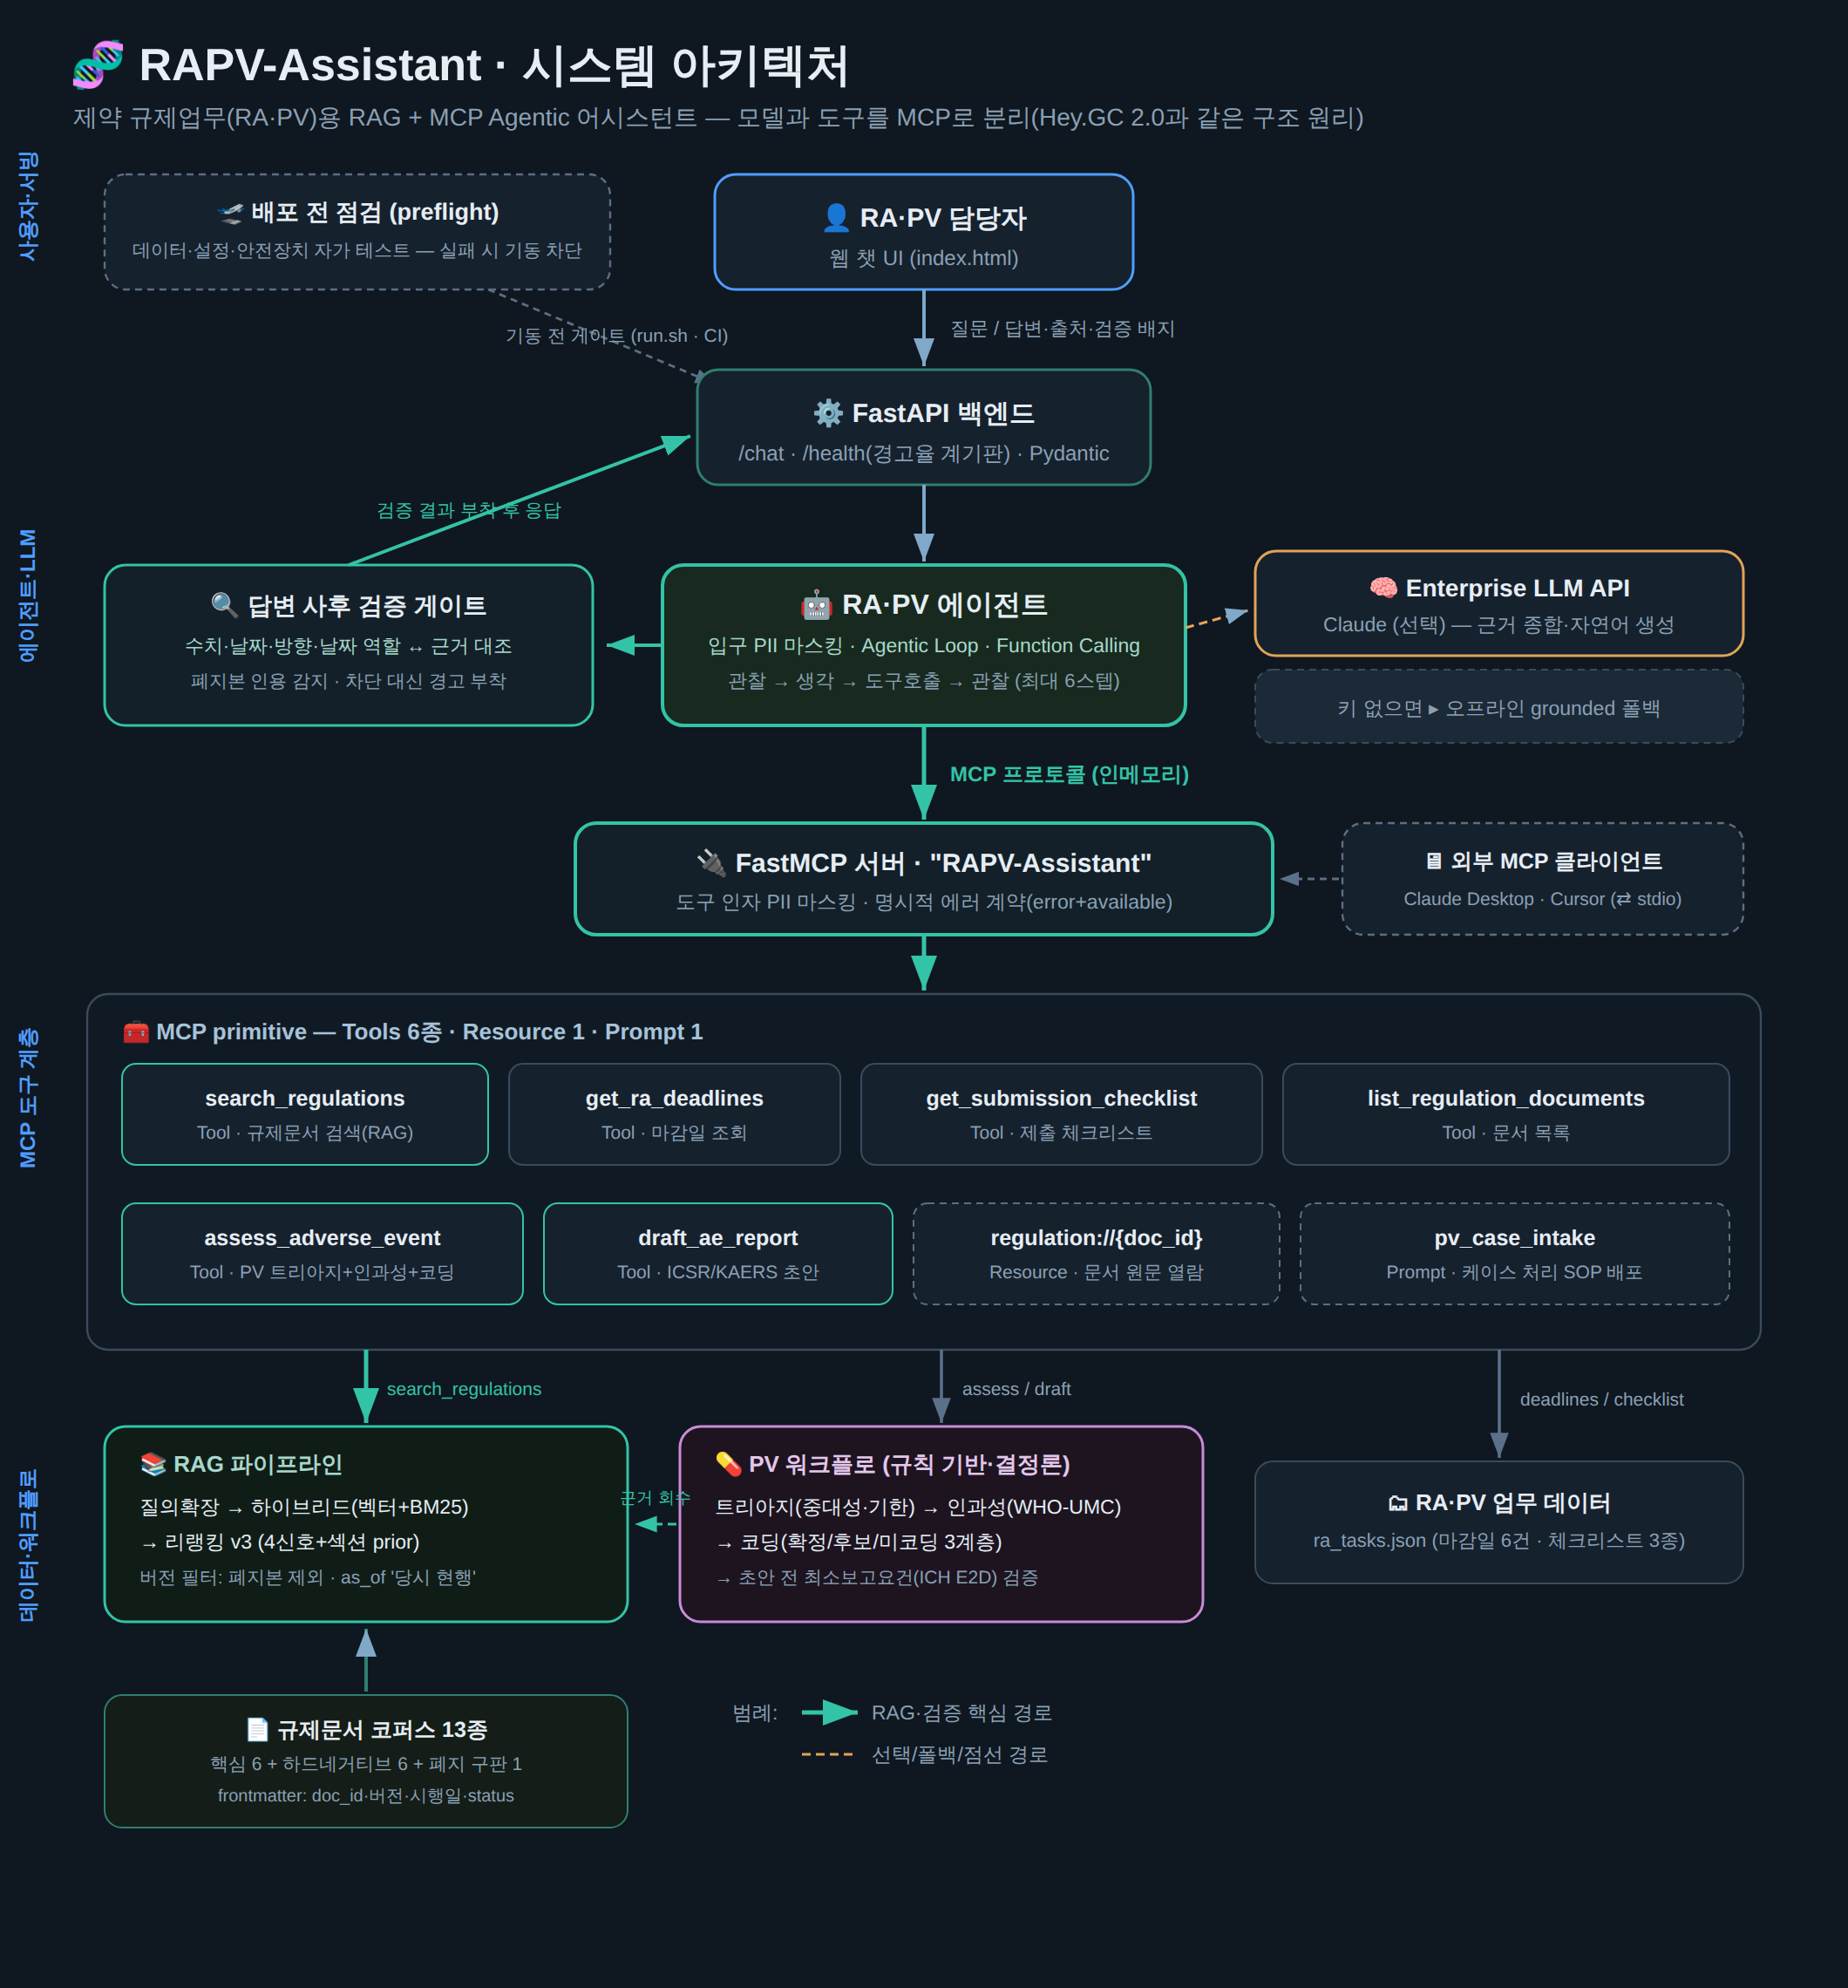
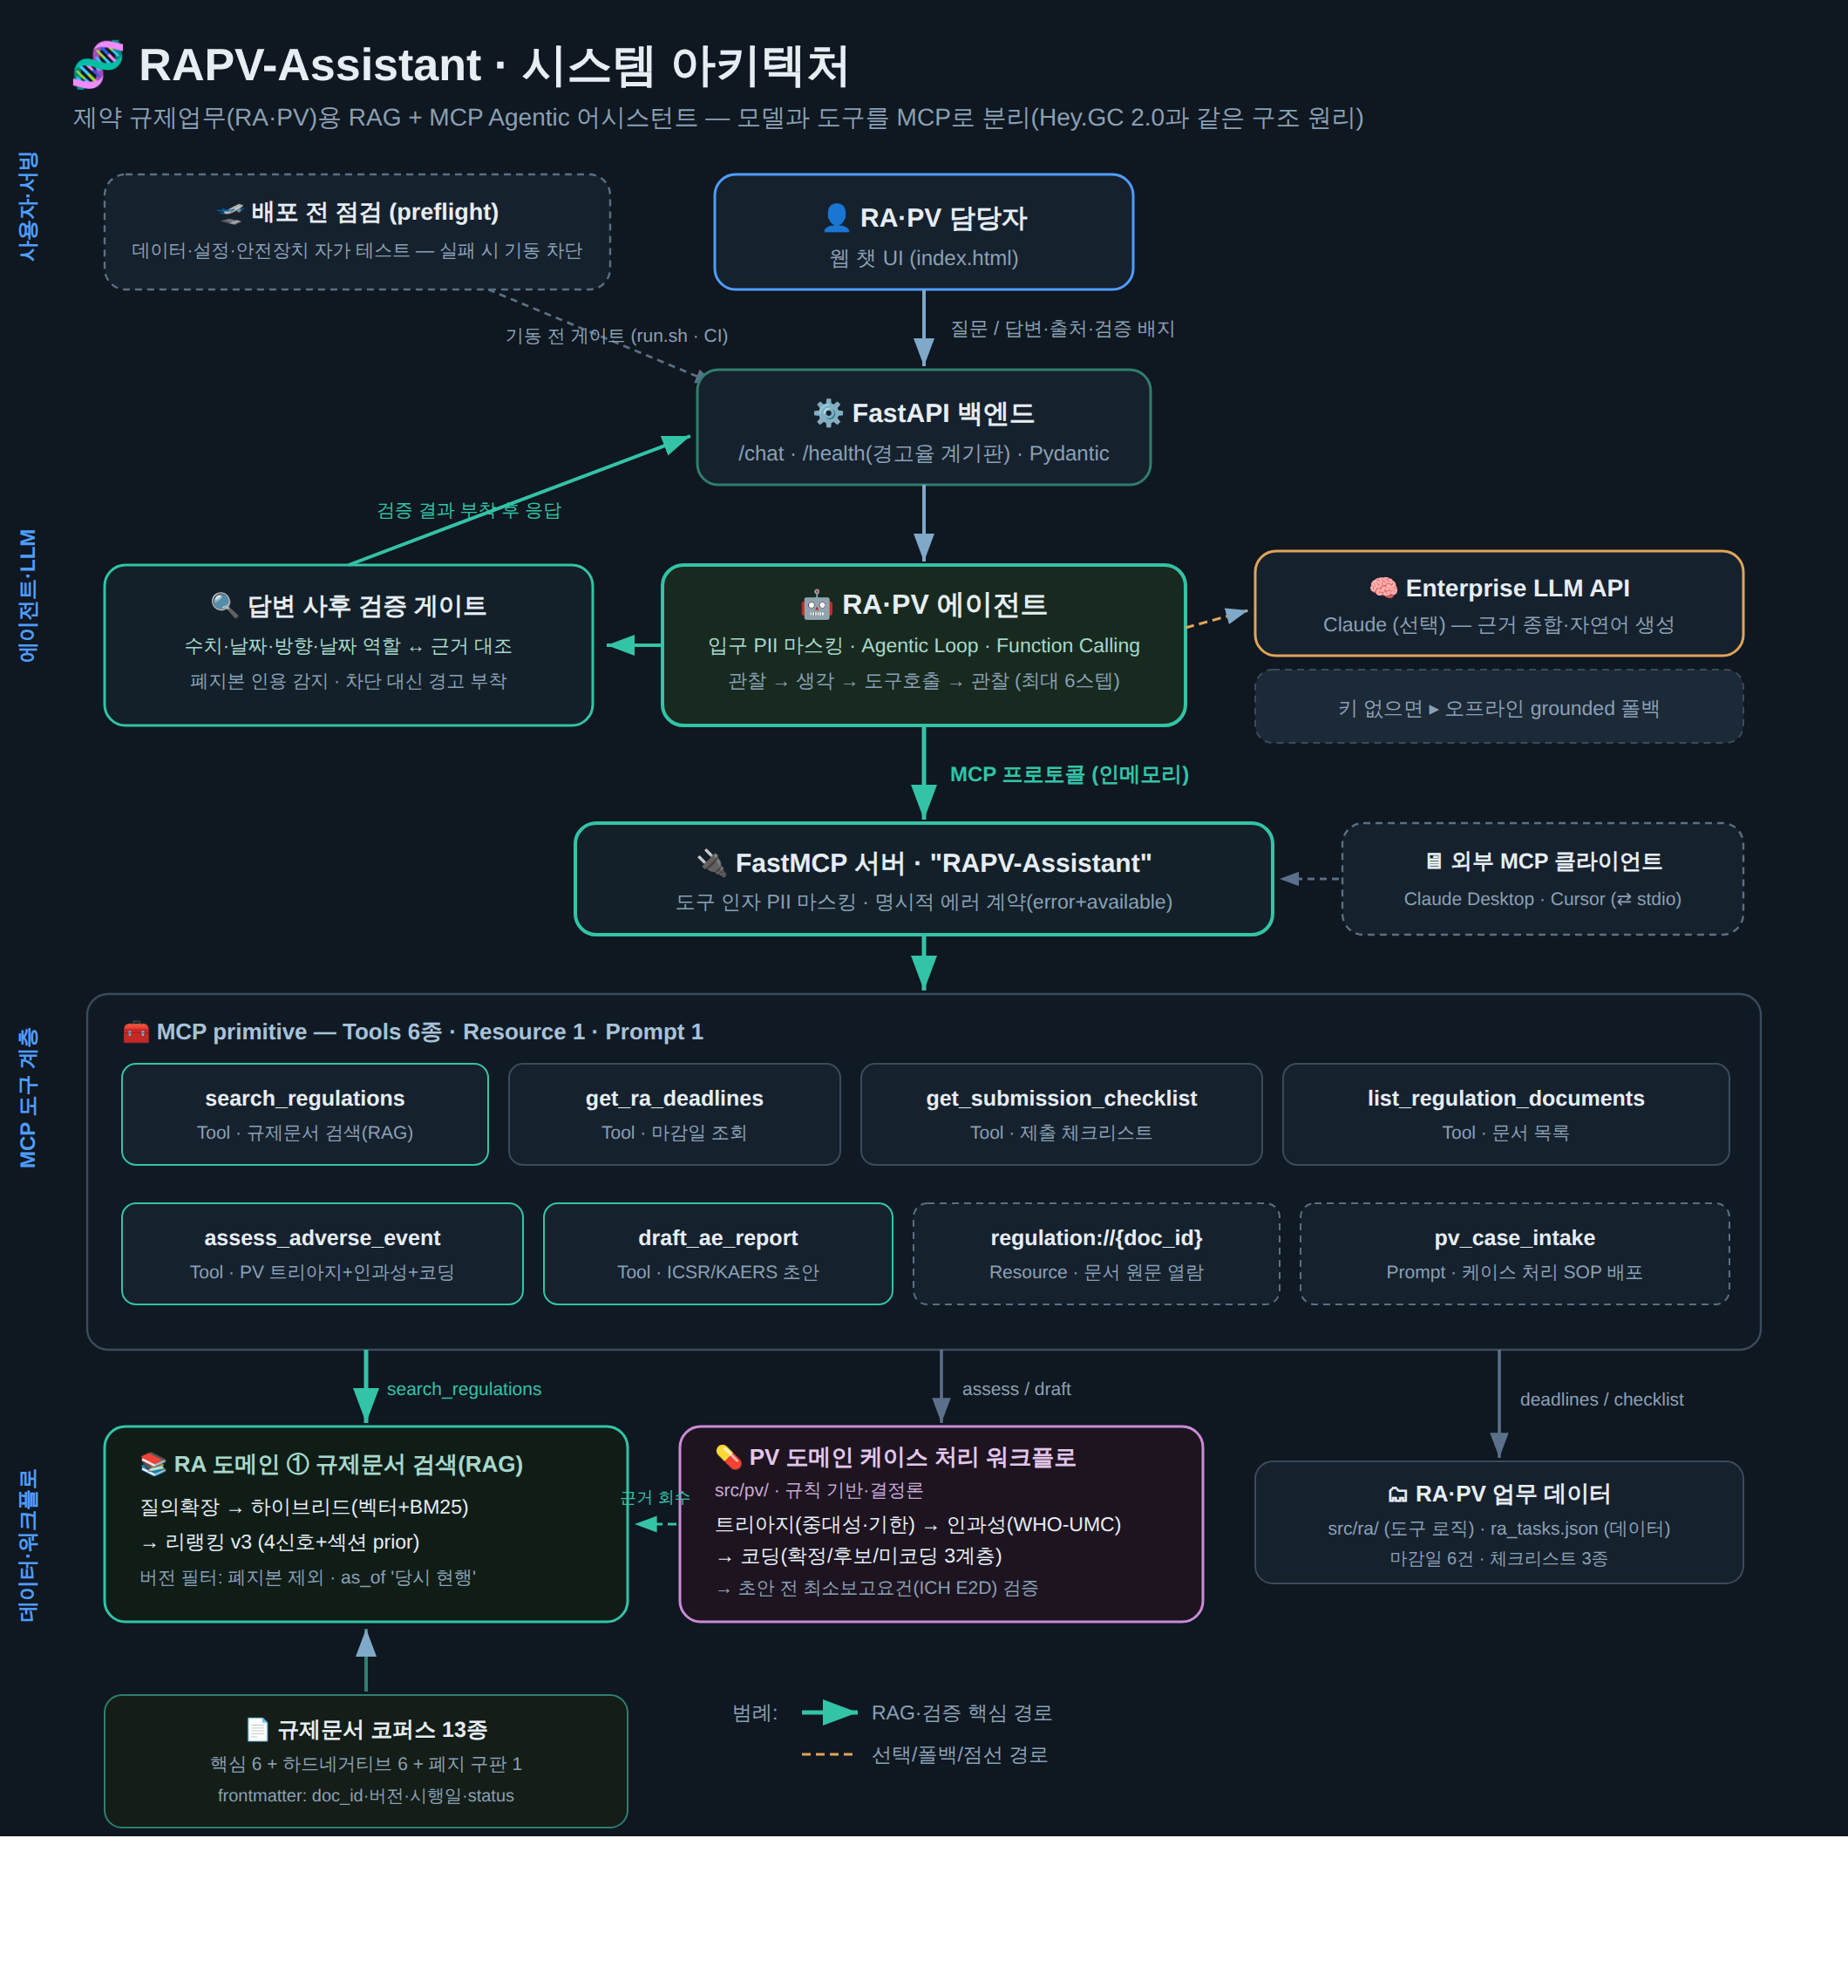
docs(v9): 점검 반영 일괄 갱신 — 홀드아웃 교정 서사·드리프트 정정·도메인 대칭 라벨·7-7 기록
v9 10렌즈 점검의 문서 발견 반영(코드 반영은 직전 커밋).

- 수치 갱신: pytest 237→271케이스(CLAUDE.md·README·파일구조·가이드·dictionary·면접노트 등
  현재 시제 전건), 지원 문서의 "pytest 195케이스" 드리프트(경력기술서_2 현행 섹션·
  05_자소서_문항3) 정정, "탐지 7축 84건" 구표기 3곳 → 9축 93건, 파일구조.md 줄 수 전건 실측 갱신.
- 홀드아웃 서사 교정: 유일 실패(0.833)는 유사문서 혼동이 아니라 복수 정답 문항의 라벨
  모호성 — accept_doc_ids 교정 후 1.000 [0.610, 1.000]. README 읽기 규율·아키텍처 8/9장·
  면접노트·면접질문 F-7 을 "교정 이력 병기 + 일반화 보장 아님(n=6)" 서사로 통일.
- 문서-동작 불일치 정정: "미충족이면 초안 대신 보완 질문" 서사 4곳(가이드·dictionary·
  아키텍처·면접질문) → 실동작(⛔ 상태 헤더 병기 초안), Claude Desktop 예시에 PYTHONPATH
  env 추가(cwd 전제 제거 — 실측), /api/deadlines 창 미적용 명시, 멀티턴 병합 경계 명시,
  무신호 질의 에러 계약 문서화.
- 도메인 대칭: 다이어그램 라벨 "RAG 파이프라인↔PV 워크플로" 병치(RAG=RA 오독 유발형)를
  "RA 도메인 ① 규제문서 검색(RAG) ↔ PV 도메인 케이스 처리"로 — README·아키텍처 mermaid·
  architecture.svg 일괄, PNG 재렌더(2120×2280). src/ra/ 신설을 읽기 지도·아키텍처·매핑 표에 등재.
- 파일구조.md 사각지대 해소: scripts/ingest_pdf.py·eval/holdout_dataset.json·
  tests/test_ingest.py·tests/test_ra.py·가이드.md 등재, 7-6/7-7 참조 추가.
- 면접질문 I 섹션 확충: 비용 봉투 계산(I-8)·코퍼스 수명주기 운영(I-9) 문답 신설.
- 면접 문서 정합: 90초 구술본 축 수, D-4 "1:1 대응" 범위 정정, F-3 튜닝 체인 귀속 통일,
  소개서 KAERS 시나리오를 오프라인 라우팅 실동작에 맞는 입력 예시로, 자소서 소재의
  PII 단층 서사 → 2겹, Hit@1 개발셋/홀드아웃 구분 단서.
- 아키텍처.md 7-7 신설: v9 점검 기록(수렴 패턴 4개 — 극성·경계 미처리 / 한쪽 경로·축
  방어 / 정본 앵커 오류 / 실패 서사 실체 미검증).

검증: pytest 271 통과 · preflight 통과 · 구수치 잔존 grep 0(아카이브 구역 제외) ·
PNG 2120×2280 재렌더 확인.

Claude-Session: https://claude.ai/code/session_01PysQduEwxjGURSRNoPG1yG

diff --git a/project/description/파일구조.md b/project/description/파일구조.md
@@ -34,11 +34,11 @@
 
   다섯 장치를 관통하는 원칙은 **조용한 실패 금지** — 틀린 입력을 조용히 무시하거나
   빈 결과로 얼버무리지 않고, 명시적인 에러·경고·caveat 로 시끄럽게 알린다.
-- **평가/테스트**: 평가 스크립트 5종 + pytest 237케이스 + CI로 모든 주장을 수치로 재현하고,
+- **평가/테스트**: 평가 스크립트 5종 + pytest 271케이스 + CI로 모든 주장을 수치로 재현하고,
   핵심 지표의 회귀는 pytest 가드가 CI 실패로 강제한다.
 - **판정 기준의 명문화**: 이 프로젝트가 검증 관점에서 무엇을 '논리적 비약'과 '사각지대'로
   보고 제거해 왔는지의 기준은 `description/아키텍처.md` 7장에, 그 기준을 시스템 전체에
-  재적용한 점검 기록은 같은 문서 7-4(v6: 20렌즈)·7-5(v7: 10렌즈)에 정리되어 있다.
+  재적용한 점검 기록은 같은 문서 7-4(v6: 20렌즈)·7-5(v7: 10렌즈)·7-6(v8)·7-7(v9)에 정리되어 있다.
 
 ---
 
@@ -50,8 +50,9 @@
 [3단계: 요청의 흐름]     src/api/main.py → src/agent/agent.py → src/mcp_server/server.py
 [4단계: RA 도메인]      규제문서 검색 src/rag/ (loader → chunker → embedder → vectorstore
                                   → synonyms → retriever → pipeline 순서)
-                        + RA 업무 도구 — 마감일·체크리스트 (server.py의 get_ra_deadlines·
-                                  get_submission_checklist + data/ra_tasks.json)
+                        + RA 업무 도구 — 마감일·체크리스트 (src/ra/tasks.py 순수 로직 +
+                                  server.py의 get_ra_deadlines·get_submission_checklist 래퍼
+                                  + data/ra_tasks.json)
 [5단계: PV 도메인]      src/pv/ (redactor → triage → causality → coding → report 순서)
 [6단계: 신뢰성 장치]     src/verify/verifier.py → src/preflight.py → src/observability.py → src/config.py
 [7단계: 증명]           eval/ → tests/ → .github/workflows/ci.yml
@@ -70,7 +71,7 @@
 | 파일 | 내용 |
 |---|---|
 | `README.md` | **가장 먼저 읽을 파일.** 문제 정의(왜 RA·PV인가), 기능 표(질문 예 → 사용 기술), 전체 아키텍처 mermaid 다이어그램, 채용공고 기술스택 매핑 표, 실행 방법, 평가 수치 전체(RAG·신뢰성·PV·검증기), 프로젝트 구조 트리. 이 문서 하나로 "무엇을·왜·얼마나 잘" 만들었는지 파악된다. |
-| `description/아키텍처.md` | **두 번째로 읽을 파일 — 아키텍처 정본(v8 에서 3벌 → 1벌 통합).** 전체 다이어그램과 계층별 상세 해설, 요청이 흐르는 길(시퀀스), 확장 지점·의도적으로 뺀 것(6장), 검증 관점의 판정 기준과 v6~v8 점검 기록(7장), 관통하는 설계 원칙(8장), 스스로 점검 질문(9장). 루트 `architecture.md` 와 `docs/ARCHITECTURE.md` 는 이 문서로의 리다이렉트 스텁만 남았다. |
+| `description/아키텍처.md` | **두 번째로 읽을 파일 — 아키텍처 정본(v8 에서 3벌 → 1벌 통합).** 전체 다이어그램과 계층별 상세 해설, 요청이 흐르는 길(시퀀스), 확장 지점·의도적으로 뺀 것(6장), 검증 관점의 판정 기준과 v6~v9 점검 기록(7장), 관통하는 설계 원칙(8장), 스스로 점검 질문(9장). 루트 `architecture.md` 와 `docs/ARCHITECTURE.md` 는 이 문서로의 리다이렉트 스텁만 남았다. |
 | `docs/프로젝트_소개서.md` | 비개발자도 읽을 수 있는 소개서. 필요성·페르소나·사용법·구조를 이미지와 함께 설명. |
 | `docs/demo.png`, `docs/architecture.png/svg` | 데모 화면 캡처와 아키텍처 그림. |
 
@@ -130,8 +131,10 @@
 7. `_finalize()`: 출처 수집·dedupe, 사후 검증 게이트 호출, 검증 결과의 **계기판 집계·감사
    로그**(`record_verification`), 응답 조립.
 
-### `src/mcp_server/server.py` (403줄) — 도구 상자
-- FastMCP 서버. MCP 3대 primitive를 모두 구현:
+### `src/mcp_server/server.py` (389줄) — 도구 상자
+- FastMCP 서버. MCP 3대 primitive를 모두 구현. **얇은 래퍼 계층**이다 — 마감일·체크리스트의
+  조회 로직은 `src/ra/tasks.py`(5장 참고)에, 검색은 `src/rag/`, 케이스 처리는 `src/pv/` 에
+  있고, 이 파일은 인자 마스킹과 MCP 노출(스키마·docstring·에러 계약)을 맡는다:
   - **Tools 6종**: `search_regulations`(RAG 검색), `get_ra_deadlines`, `get_submission_checklist`,
     `assess_adverse_event`(PV 트리아지+인과성+코딩), `draft_ae_report`(ICSR 초안),
     `list_regulation_documents`
@@ -158,9 +161,11 @@
 ## 5. 4단계 — RA 도메인: RAG 파이프라인 (`src/rag/`) + RA 업무 도구
 
 RA 담당자의 업무 축은 두 개다: **① 규제문서 검색**(이 장의 RAG 파이프라인)과
-**② 마감일·제출 체크리스트 관리**(`get_ra_deadlines`·`get_submission_checklist` 도구 +
-`data/ra_tasks.json` — 구현은 4장(3단계)의 `server.py`, 데이터는 3장(2단계) 참고).
-②는 조회 로직이 단순해 도구·데이터 장에서 끝나고, 이 장은 ①의 검색 파이프라인을 깊이 판다.
+**② 마감일·제출 체크리스트 관리** — ②의 구현은 **`src/ra/tasks.py`(90줄, v9 신설)**:
+창 조회(연체 포함)·체크리스트 매칭의 순수 로직 모듈로, `src/pv/` 와 도메인 대칭이 되도록
+분리했다(문서가 선언한 RA·PV 대칭을 코드 트리로). 4장(3단계)의 `server.py` 는 이 로직을
+마스킹+MCP 노출로 감싸는 얇은 래퍼이고, 데이터는 3장(2단계)의 `data/ra_tasks.json` 이다.
+②는 조회 로직이 단순해 여기서 끝나고, 이 장의 나머지는 ①의 검색 파이프라인을 깊이 판다.
 
 데이터가 흐르는 순서대로 읽는다:
 
@@ -171,9 +176,9 @@ RA 담당자의 업무 축은 두 개다: **① 규제문서 검색**(이 장의
 | ③ | `textutil.py` (39줄) | 한국어 토크나이저: 어절 + **CJK 문자 bi-gram**(조사·띄어쓰기 변형 대응, 형태소 분석기 없는 경량 근사). |
 | ④ | `embedder.py` (198줄) | `EmbeddingProvider` Protocol(인터페이스) 하나에 3구현 — `TfidfEmbedder`(기본, 의존성 0), `HashingEmbedder`(feature hashing, OOV에 강함), `VoyageEmbedder`(실제 상용 임베딩 API). **임베더 교체 가능성**의 증명. 희소 벡터 + 코사인. |
 | ⑤ | `vectorstore.py` (41줄) | 인메모리 벡터 스토어(코사인 top-k). 실무 Vector DB(pgvector/Qdrant)의 자리. |
-| ⑥ | `synonyms.py` (86줄) | 질의확장: 도메인 동의어 사전("부작용"→"이상사례", "심각"→"중대한"). **단방향(구어→정식 용어), 원 질의에 append**. 사전 항목은 eval 오류 분석으로 발굴/검증. |
-| ⑦ | `retriever.py` (400줄) | **RAG의 심장.** `BM25Index`(키워드 검색), `HybridRetriever`(1차: 벡터+BM25 min-max 정규화 후 α결합 → top 8 / 2차: 리랭킹 v3 — coverage·phrase·section·title 4신호 + 섹션 타입 prior(대조 섹션 페널티·서두 감쇠, 질의 의도 게이트) → top 3). 버전 필터 `_candidate_indices`(폐지본 제외, `as_of` 시점 조회 — **'그 시점의 현행' 반환**: 당시 시행 중이던 폐지본은 [시행일, 후속본 시행일) 구간 판정으로 포함, 해석 불가 시행일은 fail-closed 제외)도 여기에. 시행일은 인덱싱 시 1회 파싱(핫패스 재파싱 금지). |
-| ⑧ | `pipeline.py` (97줄) | 전 단계를 묶는 `RagPipeline`: `build()`(부팅 1회 인덱싱), `retrieve()`(질의 시 검색) → `RetrievedContext`(근거 블록+citations). |
+| ⑥ | `synonyms.py` (113줄) | 질의확장: 도메인 동의어 사전("부작용"→"이상사례", "심각"→"중대한"). **단방향(구어→정식 용어), 원 질의에 append, 최장 일치 우선**(짧은 표제어가 긴 표제어의 매칭을 가로채지 않게 — v9). 사전 항목은 eval 오류 분석으로 발굴/검증. |
+| ⑦ | `retriever.py` (433줄) | **RAG의 심장.** `BM25Index`(키워드 검색), `HybridRetriever`(1차: 벡터+BM25 min-max 정규화 후 α결합 → top 8 / 2차: 리랭킹 v3 — coverage·phrase·section·title 4신호 + 섹션 타입 prior(대조 섹션 페널티·서두 감쇠, 질의 의도 게이트) → top 3). 버전 필터 `_candidate_indices`(폐지본 제외, `as_of` 시점 조회 — **'그 시점의 현행' 반환**: 당시 시행 중이던 폐지본은 [시행일, 후속본 시행일) 구간 판정으로 포함, 해석 불가 시행일은 fail-closed 제외)도 여기에. **기본 검색은 as_of=오늘과 동치**(v9 — 미래 시행일 active 문서 제외·시행 중 폐지본 포함), **무신호(빈·완전 무관) 질의는 빈 결과**(임의 문서가 score 0 의 '결과'로 나가지 않게 — MCP 계층은 빈 질의에 명시적 에러 계약으로 답한다). 시행일은 인덱싱 시 1회 파싱(핫패스 재파싱 금지). |
+| ⑧ | `pipeline.py` (100줄) | 전 단계를 묶는 `RagPipeline`: `build()`(부팅 1회 인덱싱), `retrieve()`(질의 시 검색) → `RetrievedContext`(근거 블록+citations). |
 
 ---
 
@@ -184,11 +189,11 @@ PV 담당자의 실제 케이스 처리 순서 그대로 모듈이 나뉜다. **
 
 | 순서 | 파일 | 내용 |
 |---|---|---|
-| ① | `redactor.py` (134줄) | **PII 비식별화.** 정규식으로 주민번호(무하이픈 표기 포함)·전화(점 구분 표기 포함)·이메일·환자번호·호칭 붙은 이름(`홍길동님`→`[이름]님`) 마스킹 — 구분자 어휘가 좁으면 그만큼이 우회로다. 경계는 `\b`가 아니라 **숫자 룩어라운드**(한글 직결 표기 "…는 010-…로"·"…입니다"가 `\b`를 벗어나 유출되던 v6 사각지대의 봉합 — 검증기 날짜 추출과 같은 교훈), 이메일은 ASCII 한정(한글 삼킴 과잉 매칭 차단). 값은 지우되 존재 신호는 남긴다(최소보고요건 '식별 가능한 환자' 판정과 양립). 이름 오탐은 스톱리스트로 차단. 여러 입력 필드의 마스킹 리포트를 합산하는 `merged_summary` 포함(도구 인자별 마스킹의 단일 감사 리포트). |
-| ② | `triage.py` (166줄) | **중대성 판정 + 보고기한 계산.** 중대성은 규정의 닫힌 목록(사망·생명위협·입원·장애·기형·의학적 중요) 대조라 규칙으로 '확정'. 기한: 사망·생명위협→지체 없이, 그 외 중대→인지일+15일, 비중대→PSUR. 예상 여부 불명이면 보수 적용. 인지일 형식 오류는 조용히 오늘로 폴백하지 않고 **caveat로 명시**, 형식은 맞아도 **미래 날짜인 인지일**(오타 개연성)도 caveat 로 명시(형식만 검사하고 값 타당성은 조용히 통과시키는 비대칭의 봉합 — 시끄러운 실패). |
-| ③ | `causality.py` (209줄) | **인과성 평가(WHO-UMC).** 4신호(시간관계·dechallenge·rechallenge·대체원인) 감지 → 등급을 '확정'이 아니라 **'제안'** + 부족 정보는 follow-up 질문 생성. 트리아지와 확신 수준을 다르게 설계한 것이 포인트. |
-| ④ | `coding.py` (203줄) | **용어 표준화 3계층(MedDRA 방식).** ①검수된 소사전 매칭=확정(`code_terms`) ②LLT 스타일 참조=후보(`suggest_candidates`, needs_confirmation) ③사전에 없는 증상 서술=미코딩 감지(`flag_uncoded_expressions`). 후보/확정을 타입 수준에서 분리해 집계 오염을 구조적으로 차단. |
-| ⑤ | `report.py` (213줄) | **ICSR/KAERS 보고서 초안.** 초안 생성 전에 최소보고요건(ICH E2D 4요소: 환자·보고자·의심약·이상사례)을 검증 — 미충족이면 `reportable=False` + 보완 질문. 의심약 감지는 노출 맥락("OO정을 복용")이 있을 때만 매칭(오탐 방지). |
+| ① | `redactor.py` (145줄) | **PII 비식별화.** 정규식으로 주민번호(무하이픈 표기 포함)·전화(점 구분 표기 포함)·이메일·환자번호·호칭 붙은 이름(`홍길동님`→`[이름]님`) 마스킹 — 구분자 어휘가 좁으면 그만큼이 우회로다. 경계는 `\b`가 아니라 **숫자 룩어라운드**(한글 직결 표기 "…는 010-…로"·"…입니다"가 `\b`를 벗어나 유출되던 v6 사각지대의 봉합 — 검증기 날짜 추출과 같은 교훈), 이메일은 ASCII 한정(한글 삼킴 과잉 매칭 차단). 값은 지우되 존재 신호는 남긴다(최소보고요건 '식별 가능한 환자' 판정과 양립). 이름 오탐은 스톱리스트로 차단. 여러 입력 필드의 마스킹 리포트를 합산하는 `merged_summary` 포함(도구 인자별 마스킹의 단일 감사 리포트). |
+| ② | `triage.py` (180줄) | **중대성 판정 + 보고기한 계산.** 중대성은 규정의 닫힌 목록(사망·생명위협·입원·장애·기형·의학적 중요) 대조라 규칙으로 '확정'. 기한: 사망·생명위협→지체 없이, 그 외 중대→인지일+15일, 비중대→PSUR. 예상 여부 불명이면 보수 적용. 인지일 형식 오류는 조용히 오늘로 폴백하지 않고 **caveat로 명시**, 형식은 맞아도 **미래 날짜인 인지일**(오타 개연성)도 caveat 로 명시(형식만 검사하고 값 타당성은 조용히 통과시키는 비대칭의 봉합 — 시끄러운 실패). |
+| ③ | `causality.py` (287줄) | **인과성 평가(WHO-UMC).** 4신호(시간관계·dechallenge·rechallenge·대체원인) 감지 → 등급을 '확정'이 아니라 **'제안'** + 부족 정보는 follow-up 질문 생성. 트리아지와 확신 수준을 다르게 설계한 것이 포인트. |
+| ④ | `coding.py` (225줄) | **용어 표준화 3계층(MedDRA 방식).** ①검수된 소사전 매칭=확정(`code_terms`) ②LLT 스타일 참조=후보(`suggest_candidates`, needs_confirmation) ③사전에 없는 증상 서술=미코딩 감지(`flag_uncoded_expressions`). 후보/확정을 타입 수준에서 분리해 집계 오염을 구조적으로 차단. |
+| ⑤ | `report.py` (237줄) | **ICSR/KAERS 보고서 초안.** 초안 생성 전에 최소보고요건(ICH E2D 4요소: 환자·보고자·의심약·이상사례)을 검증 — 미충족이면 `reportable=False` + 보완 질문. 의심약 감지는 노출 맥락("OO정을 복용")이 있을 때만 매칭(오탐 방지). |
 
 ---
 
@@ -196,9 +201,9 @@ PV 담당자의 실제 케이스 처리 순서 그대로 모듈이 나뉜다. **
 
 | 파일 | 내용 |
 |---|---|
-| `src/verify/verifier.py` (759줄) | **답변 사후 검증 게이트.** 모든 응답의 수치·단위(근무일≠일)·고유어 수사(보름=15일)·날짜(**한국어 표기 "2026년 7월 25일"·연도 없는 부분 표기 "7월 25일"(--MM-DD 접미 대조)·연도 단독 표기 "2025년"(근거 날짜의 연도 성분 대조)까지 표기 정규화로 대조** — 날짜의 '25일' 성분이 기간으로 오추출되는 오염(한국어 표기·"2026-07-25일" 접미 표기 모두)도 함께 차단)·**방향 한정어(이내↔이후 — 기간·날짜("2026-07-25까지"↔"이후")·고유어("보름 이후") 표기 모두: 일부 표기에만 있으면 같은 왜곡이 표기에 따라 한쪽만 잡히는 축 간 비대칭)**·**날짜 역할(기한↔인지일 — 두 날짜가 모두 근거에 있어도 역할이 뒤바뀌면 잡는 축)**을 추출해 신뢰 소스(검색 근거 ∪ 결정론적 도구 출력 − 입력 에코·에러 계약)와 대조. **2계층 신뢰 소스**: 케이스 서술 에코에서만 지지되는 클레임은 from_case(case_origin) 라벨 — 경고가 아니라 근거 '등급'의 구분. **방향·역할 충돌의 판정 기준은 strict 계층** — 케이스 에코의 "15일 이후 증상"이 규정 "15일 이내"의 방향 경고를 조용히 무력화하지 못하며, 케이스에 같은 방향이 있으면 경고에 from_case 를 붙여 '재서술 vs 왜곡' 모호성을 사람에게 넘긴다. 폐지본 인용 감지는 **문서 단위 허용**(allowed_superseded_ids — 이력 검색이 실제 반환한 문서만 면제). 실패 시 차단이 아니라 경고 부착. 날짜 추출 경계는 `\b`가 아니라 룩어라운드 — 한글도 `\w`라서 "2026-07-25입니다"의 날짜가 `\b`로는 아예 추출되지 않는다(답변·근거 양쪽에서 똑같이 안 잡혀 통과처럼 보이던 사각지대). |
-| `src/preflight.py` (440줄) | **배포 전 점검(FDE Day-0 게이트).** 기동 전에 4그룹을 검사: 설정 불변식(모순 조합), 코퍼스 무결성(frontmatter 필수 필드·doc_id 유일성·**폐지 체인**(실존·현행 종점·**시행일 단조성** — 후속본 시행일 ≤ 구판 시행일이면 시점 조회의 구간 판정이 깨진다)), 업무 데이터 스키마(+**마감일 전건 과거 감지** — 시한부 샘플 데이터의 부패), 스모크 canary(RAG·PV·**시점 조회** — 과거 시점에 당시 현행이던 구판이 반환되는가) + **안전장치 자가 테스트**(검증 게이트: 런타임 게이트의 **모든 경고 축**(존재·방향(기간/날짜/고유어)·역할·버전·전제 라벨)에 심은 오류가 '기대한 그 축에' 걸리는가 + **비경고 라벨 축**(case_origin — 라벨은 죽어도 소리가 없으므로 자가 테스트 없이는 고장 신호 자체가 없다) + **표기 변형**(고유어 방향·부분 날짜 — 축이 살아 있어도 특정 표기의 수집이 죽으면 그 표기로만 오는 왜곡은 전부 조용히 통과) + 정상 케이스 오탐 없음 / PII 마스킹: 심은 개인정보가 지워지는가 — **한글 직결 표기("…는 010-…로", "…입니다")와 이력 블록 리스트 표기(content=[{type:text}])를 포함해** 심는다(마스킹 계층의 표기 변형 자가 테스트) — 축 목록과 자가 테스트 커버리지가 어긋나면 테스트가 실패해 새 축 추가 시 자가 테스트를 구조로 강제). 실패 시 exit 1 — `run.sh`·CI가 이 게이트 뒤에 있다(수동 uvicorn 실행은 게이트 밖 — 가이드 2장 참고). |
-| `src/observability.py` (192줄) | `Trace`/`Span` 구조 + `timed()` 컨텍스트 매니저. 도구 호출·LLM 스텝별 지연·성패 기록, 구조화(JSON) 로그. 총 지연(`total_ms`)은 최상위 agent span의 **wall-clock** — 중첩 span 합산은 같은 시간을 두 번 세어 계기판이 ~2배 지연을 보고한다(관측이 틀리면 SLA 판단이 함께 틀린다). 여기에 **검증 게이트 운영 계기판**(`GateStats` — 경고율·축별 집계, `/health` 노출. **warn_rate_checked** 병기: 회피·무클레임 응답이 분모에 섞이면 트래픽 믹스 변화가 품질 변화처럼 보인다 — 분모 혼합 착시 제거. **case_labeled** 병기: 케이스 유래 라벨은 ok=True 라 경고율에 안 보인다 — 답변이 규정 근거 대신 사용자 서술에 기대기 시작하는 이동의 추이 신호)과 응답 단위 **감사 로그**(`record_verification` — case_origin 라벨 포함)가 있다. OpenTelemetry 개념의 무의존성 구현. |
+| `src/verify/verifier.py` (851줄) | **답변 사후 검증 게이트.** 모든 응답의 수치·단위(근무일≠일 — '주간/달(개월)/퍼센트' 같은 한글 단위 표기도 수집: 한 표기만 빠져도 그 표기로 온 왜곡은 미탐·옳은 표기는 오탐이 되는 양방향 결함이라 v9 에서 봉합)·고유어 수사(보름=15일)·날짜(**한국어 표기 "2026년 7월 25일"·연도 없는 부분 표기 "7월 25일"(--MM-DD 접미 대조)·연도 단독 표기 "2025년"(근거 날짜의 연도 성분 대조)까지 표기 정규화로 대조** — 날짜의 '25일' 성분이 기간으로 오추출되는 오염(한국어 표기·"2026-07-25일" 접미 표기 모두)도 함께 차단)·**방향 한정어(이내↔이후 — 기간·날짜("2026-07-25까지"↔"이후")·고유어("보름 이후") 표기 모두: 일부 표기에만 있으면 같은 왜곡이 표기에 따라 한쪽만 잡히는 축 간 비대칭)**·**날짜 역할(기한↔인지일 — 두 날짜가 모두 근거에 있어도 역할이 뒤바뀌면 잡는 축)**을 추출해 신뢰 소스(검색 근거 ∪ 결정론적 도구 출력 − 입력 에코·에러 계약)와 대조. **2계층 신뢰 소스**: 케이스 서술 에코에서만 지지되는 클레임은 from_case(case_origin) 라벨 — 경고가 아니라 근거 '등급'의 구분. **방향·역할 충돌의 판정 기준은 strict 계층** — 케이스 에코의 "15일 이후 증상"이 규정 "15일 이내"의 방향 경고를 조용히 무력화하지 못하며, 케이스에 같은 방향이 있으면 경고에 from_case 를 붙여 '재서술 vs 왜곡' 모호성을 사람에게 넘긴다(case_origin 집계에도 방향축 from_case 가 포함된다 — v9). **방향·역할 축도 from_question 전제 라벨을 안다**(v9 — 질문이 전제한 방향·역할을 답변이 정정할 때 '환각'이 아니라 '전제 확인 필요'로 경고 종류 조정: 존재 축에만 있던 완화의 대칭화). 폐지본 인용 감지는 **문서 단위 허용**(allowed_superseded_ids — 이력 검색이 실제 반환한 문서만 면제). 실패 시 차단이 아니라 경고 부착. **경고 축·라벨 축의 정본**(WARNING_AXES/LABEL_AXES)도 이 모듈이 소유한다(v9 — 계기판·preflight 자가 테스트가 여기서 파생: 정본이 수동 튜플에 앵커되어 있으면 새 축이 커버리지 검사 밖에서 조용히 태어난다). 날짜 추출 경계는 `\b`가 아니라 룩어라운드 — 한글도 `\w`라서 "2026-07-25입니다"의 날짜가 `\b`로는 아예 추출되지 않는다(답변·근거 양쪽에서 똑같이 안 잡혀 통과처럼 보이던 사각지대). |
+| `src/preflight.py` (505줄) | **배포 전 점검(FDE Day-0 게이트).** 기동 전에 4그룹을 검사: 설정 불변식(모순 조합), 코퍼스 무결성(frontmatter 필수 필드·doc_id 유일성·**폐지 체인**(실존·현행 종점·**시행일 단조성** — 후속본 시행일 ≤ 구판 시행일이면 시점 조회의 구간 판정이 깨진다)·**미래 시행일 active 의 '시행 중 구판 부재' 검사**(v9 — 시행 전 신판만 있고 현재 시행 중인 판이 없으면 기본 검색에서 그 규정이 통째로 사라지는 잠복 결함)), 업무 데이터 스키마(+**마감일 전건 과거 감지** — 시한부 샘플 데이터의 부패), 스모크 canary(RAG·PV·**시점 조회** — 과거 시점에 당시 현행이던 구판이 반환되는가) + **안전장치 자가 테스트**(검증 게이트: 런타임 게이트의 **모든 경고 축**(존재·방향(기간/날짜/고유어)·역할·버전·전제 라벨)에 심은 오류가 '기대한 그 축에' 걸리는가 + **비경고 라벨 축**(case_origin — 라벨은 죽어도 소리가 없으므로 자가 테스트 없이는 고장 신호 자체가 없다) + **표기 변형**(고유어 방향·부분 날짜·**주간 표기**(v9)) + **방향 전제 정정 라벨·케이스 간섭 from_case 단언**(v9) + 정상 케이스 오탐 없음 / PII 마스킹: 심은 개인정보가 지워지는가 — **한글 직결 표기("…는 010-…로", "…입니다")와 이력 블록 리스트 표기(content=[{type:text}]), "~님으로부터"·점 구분 주민번호 프로브(v9)를 포함해** 심는다(마스킹 계층의 표기 변형 자가 테스트) — 축 목록(검증기의 축 정본에서 파생)과 자가 테스트 커버리지가 어긋나면 테스트가 실패해 새 축 추가 시 자가 테스트를 구조로 강제). 실패 시 exit 1 — `run.sh`·CI가 이 게이트 뒤에 있다(수동 uvicorn 실행은 게이트 밖 — 가이드 2장 참고). |
+| `src/observability.py` (201줄) | `Trace`/`Span` 구조 + `timed()` 컨텍스트 매니저. 도구 호출·LLM 스텝별 지연·성패 기록, 구조화(JSON) 로그. 총 지연(`total_ms`)은 최상위 agent span의 **wall-clock** — 중첩 span 합산은 같은 시간을 두 번 세어 계기판이 ~2배 지연을 보고한다(관측이 틀리면 SLA 판단이 함께 틀린다). 여기에 **검증 게이트 운영 계기판**(`GateStats` — 경고율·축별 집계, `/health` 노출. **warn_rate_checked** 병기: 회피·무클레임 응답이 분모에 섞이면 트래픽 믹스 변화가 품질 변화처럼 보인다 — 분모 혼합 착시 제거. **case_labeled** 병기: 케이스 유래 라벨은 ok=True 라 경고율에 안 보인다 — 답변이 규정 근거 대신 사용자 서술에 기대기 시작하는 이동의 추이 신호)과 응답 단위 **감사 로그**(`record_verification` — case_origin 라벨 포함)가 있다. OpenTelemetry 개념의 무의존성 구현. |
 | `src/config.py` (48줄) | 모든 하이퍼파라미터가 환경변수로 제어: `CHUNK_SIZE=500`, `CHUNK_OVERLAP=80`, `RETRIEVE_TOP_K=8`, `RERANK_TOP_N=3`, `HYBRID_ALPHA=0.5`, `RERANK_WEIGHT=0.9`, 섹션 prior 페널티(0.3/0.055), `EMBEDDER_KIND`, `QUERY_EXPANSION`. 값의 근거는 `eval/sweep.py`로 재현. |
 | `web/index.html` | 단일 페이지 챗 UI. 출처·도구 트레이스·지연·PII 마스킹·검증 배지 표시, 멀티턴 지원. |
 
@@ -214,13 +219,14 @@ PV 담당자의 실제 케이스 처리 순서 그대로 모듈이 나뉜다. **
 | `sweep.py` | **하이퍼파라미터 스윕·ablation** — rerank_weight·alpha·idf_power·섹션 prior 값의 결정 근거를 표로 재현. |
 | `faithfulness.py` | **답변 신뢰성** — AnswerGroundedness, CitationRate, AbstentionAccuracy, OverAbstain. |
 | `pv_eval.py` | **PV 워크플로** — 라벨 22케이스로 중대성·기한·인과성·코딩(P/R/F1)·보고요건 정확도. |
-| `verify_eval.py` | **검증기 자체 평가**(메타모픽) — 정상 답변에 결정론적 변조(수치 치환·오프셋·방향 뒤집기·고유어 치환·날짜 시프트·**날짜 역할 스왑**·**부분 날짜 시프트**)를 가해 탐지율(7축)/오탐률(4축) 측정. 신뢰 소스 뷰는 운영(agent)과 동일한 2계층(케이스 에코 분리). **측정 경계도 명시**: 고유어 방향·케이스 간섭 축은 eval 이 아니라 preflight 자가 테스트·단위 테스트가 고정한다(표본 0~1의 축을 eval 지표로 두면 '측정의 조용한 수축'과 구분되지 않는다). 이 수치들의 '핀'은 `tests/test_verify_eval.py` 가 **CI 실패로 강제**한다(스크립트 자체는 exit 0 — 측정과 강제는 다른 명제). |
+| `verify_eval.py` | **검증기 자체 평가**(메타모픽) — 정상 답변에 결정론적 변조(수치 치환·오프셋·방향 뒤집기·고유어 치환·날짜 시프트·**날짜 역할 스왑**·**부분 날짜 시프트**·**부분 날짜 역할 스왑**·**하이픈 범위**)를 가해 탐지율(**9축 93건**)/오탐률(4축) 측정. 신뢰 소스 뷰는 운영(agent)과 동일한 2계층(케이스 에코 분리). **측정 경계도 명시**: 고유어 방향·케이스 간섭 축은 eval 이 아니라 preflight 자가 테스트·단위 테스트가 고정한다(표본 0~1의 축을 eval 지표로 두면 '측정의 조용한 수축'과 구분되지 않는다). 이 수치들의 '핀'은 `tests/test_verify_eval.py` 가 **CI 실패로 강제**한다(스크립트 자체는 exit 0 — 측정과 강제는 다른 명제). |
 | `stats.py` | Wilson 95% 신뢰구간 — 소표본에서 1.000을 과장하지 않기 위한 장치. |
-| `qa_dataset.json` | 검색 평가 32문항(하드네거티브 14 + 섹션 prior 게이트 검증 2 포함). |
+| `qa_dataset.json` | 검색 평가 32문항(하드네거티브 14 + 섹션 prior 게이트 검증 2 포함) — 오류 분석 루프에 쓴 **개발셋**. |
+| `holdout_dataset.json` | **홀드아웃 6문항** — 튜닝에 쓰지 않는 일반화 근사용. v9 에서 복수 정답 문항의 라벨 모호성만 `accept_doc_ids` 로 교정(검색기 튜닝 없음 — 홀드아웃 규율 유지). |
 | `abstention_dataset.json` | 범위 밖 질문(회피가 정답인 문항). |
 | `pv_dataset.json` | PV 라벨 22케이스(롱테일 구어를 일부러 포함해 재현율이 정직하게 1.0 미만). |
 
-### `tests/` — pytest 237케이스
+### `tests/` — pytest 271케이스
 
 | 파일 | 대상 |
 |---|---|
@@ -231,7 +237,9 @@ PV 담당자의 실제 케이스 처리 순서 그대로 모듈이 나뉜다. **
 | `test_mcp.py` | MCP 도구·Resource·Prompt 계약(오타 필터·형식 틀린 as_of 의 명시적 에러 계약, 시점 조회 계약, **도구 계층 전 인자 마스킹**(query·필터·Prompt) 포함) |
 | `test_pv.py`, `test_pv_workflow.py`, `test_pv_eval.py` | 트리아지·인과성·코딩·보고요건 + 평가 회귀(인지일 폴백 caveat·**미래 인지일 caveat**, 도구 인자 PII 우회로 차단, **구분자 변형·한글 직결 표기 PII 마스킹**(룩어라운드 경계)·이메일 한글 삼킴 방지 포함) |
 | `test_verifier.py` | 사후 검증 게이트(추출·대조·방향 한정어(기간·날짜·**고유어**)·날짜 역할·한국어 날짜 표기 정규화·**부분 날짜("7월 25일")·연도 표기("2025년")·ISO+'일' 접미 오염 차단**·케이스 유래 라벨·**케이스 간섭 방향 충돌(strict 판정)**·폐지본 문서 단위 허용·운영 계기판(warn_rate_checked·case_labeled)) |
-| `test_verify_eval.py` | **검증기 메타 평가의 회귀 가드** — 탐지율 7축·오탐률 4축·표본 수 하한·E2E 전수 통과를 CI 실패로 강제('핀에 알람을 다는' 층) |
+| `test_verify_eval.py` | **검증기 메타 평가의 회귀 가드** — 탐지율 9축·오탐률 4축·표본 수 하한·E2E 전수 통과를 CI 실패로 강제('핀에 알람을 다는' 층) |
+| `test_ra.py` | RA 업무 도구 순수 로직(`src/ra/tasks.py`) — 창 조회·연체 포함·체크리스트 매칭 (v9 신설) |
+| `test_ingest.py` | PDF 인제스트 경로(`scripts/ingest_pdf.py`) — 헤딩 휴리스틱·frontmatter 생성 |
 | `test_preflight.py` | 배포 전 점검(리포 데이터 통과 + 대표 결함 탐지 — 메타 누락·폐지 체인 단절·**체인 시행일 역전**·**시한부 마감일(전건 과거)**·모순 설정·고장난 마스킹(**이력 블록 경로 포함**)·**고장난 검증 게이트**) + 자가 테스트의 **전 경고 축 커버리지** 메타 테스트 |
 | `test_invariants.py` | 불변식/fuzz 테스트 |
 | `conftest.py` | 공용 픽스처 |
@@ -261,6 +269,7 @@ PV 담당자의 실제 케이스 처리 순서 그대로 모듈이 나뉜다. **
 | 파일 | 내용 |
 |---|---|
 | `run.sh` | 원커맨드 실행(venv 생성+의존성 설치+**배포 전 점검(preflight)**+uvicorn 기동, `.env` 자동 로드). preflight 실패 시 서버를 띄우지 않는다. |
+| `scripts/ingest_pdf.py` | **PDF→코퍼스 변환 경로**(v8) — pypdf 추출+헤딩 휴리스틱+frontmatter 부착 → `data/imported/*.md`(사람 검토 후 코퍼스 반입). 5장 ①의 md 로더가 전제하는 "실무 PDF/HWP 파서 자리"가 가설이 아니라 작동하는 코드임을 증명한다(상용 파서 교체 지점). 회귀는 `tests/test_ingest.py`. |
 | `requirements.txt` / `requirements-dev.txt` | 런타임(fastapi·fastmcp·uvicorn 등) / 개발(pytest) 의존성. |
 | `.env.example` | 환경변수 예시(`ANTHROPIC_API_KEY` 등). |
 | `pytest.ini` | pytest 설정. |
@@ -271,10 +280,12 @@ PV 담당자의 실제 케이스 처리 순서 그대로 모듈이 나뉜다. **
 ## 11. 목적별 지름길
 
 - **"일단 돌려보고 싶다"** → `README.md` 5장 → `./run.sh` → 브라우저 `http://127.0.0.1:8000`
+- **"실제로 써보고 싶다(질문 요령·화면 읽는 법·FAQ)"** → `description/가이드.md` — 설치부터
+  질문 유형별 사용법, 검증 경고·배지 해석, 트러블슈팅까지의 사용자 가이드
 - **"RAG 최적화만 보고 싶다"** → `src/rag/retriever.py` + `eval/evaluate.py` + `eval/sweep.py` + README 6장
 - **"MCP가 뭔지 보고 싶다"** → `src/mcp_server/server.py` (도구 docstring 위주로) + `description/아키텍처.md` 2-4장
 - **"에이전트 루프를 보고 싶다"** → `src/agent/agent.py`의 LLM 모드 tool-use 루프 + 오프라인 라우터
-- **"도메인(RA·PV) 이해도를 보고 싶다"** → RA: `data/regulations/*.md` frontmatter + `data/ra_tasks.json` + `server.py`의 마감일·체크리스트 도구 / PV: `src/pv/` 5개 파일 + `eval/pv_dataset.json` 라벨
+- **"도메인(RA·PV) 이해도를 보고 싶다"** → RA: `data/regulations/*.md` frontmatter + `data/ra_tasks.json` + `src/ra/tasks.py`(마감일·체크리스트 로직 — MCP 노출은 `server.py`) / PV: `src/pv/` 5개 파일 + `eval/pv_dataset.json` 라벨
 - **"환각을 어떻게 막는지 보고 싶다"** → `agent.py`의 abstention + `src/verify/verifier.py` + `eval/faithfulness.py`
 - **"FDE 배치 운영 관점을 보고 싶다"** → `src/preflight.py`(배포 전 게이트) + `src/observability.py`의 `GateStats`(경고율 계기판) + `/health` 응답 + `eval/verify_eval.py`(게이트 자체 검증)
 - **"면접 준비 관점"** → `docs/면접노트.md` → `description/면접질문.md`(이 폴더)

diff --git a/project/docs/포트폴리오_자소서3_소재.md b/project/docs/포트폴리오_자소서3_소재.md
@@ -30,7 +30,8 @@
   모델과 도구를 MCP로 분리해 `Hey.GC 2.0`과 같은 확장 구조를 구현.
 - **PV 케이스 처리 워크플로**(트리아지→인과성(WHO-UMC) 제안→용어 코딩→ICSR 보고서 초안)를
   규칙 기반(결정론)으로 구현 — 컴플라이언스 계산은 LLM이 아닌 감사 가능한 도구가 담당.
-  환자 **개인정보(PII)는 에이전트 입구에서 마스킹**해 외부 API로 나가지 않게 함.
+  환자 **개인정보(PII)는 에이전트 입구+MCP 도구 계층 2겹으로 마스킹**(도구 단독 사용 경로도
+  재마스킹)해 외부 API로 나가지 않게 함.
 - **에이전트**가 MCP 도구를 자율 호출(Function Calling)하도록 하고, LLM 키가 없어도
   근거 기반으로 답하는 **graceful degradation**을 넣어 데모 무중단성을 확보.
 - **FastAPI + 웹 챗 UI**로 풀스택 완성, 답변에 **출처·도구 트레이스**를 노출.
@@ -39,7 +40,8 @@
 ### R (결과)
 - 데이터→RAG→MCP→에이전트→API→UI→평가까지 **end-to-end 작동 데모** 완성.
 - 검색 평가에서 하이브리드가 벡터 단독 대비 **ContextRecall 0.781 → 0.844** 개선을 확인
-  (리랭킹·질의확장까지 적용 시 **0.969**, Hit@1 0.875 → **1.000** — 32문항 기준).
+  (리랭킹·질의확장까지 적용 시 **0.969**, Hit@1 0.875 → **1.000** — 32문항 기준.
+  32문항은 튜닝에 쓴 개발셋 — 홀드아웃 6문항은 별도 유지, 라벨 교정 후 1.000).
 - PV 워크플로도 라벨 22케이스로 수치 검증 — 중대성·기한·인과성·보고요건 판정 **1.000**,
   코딩 정밀도 **1.000**(무관용)에 재현율 갭(0.792)은 확장 지점으로 정직하게 남김.
 - ⬜ (추가로 채울 것: 스스로 느낀 임팩트, 예: "규정 확인에 걸리던 시간을 체감상 크게 단축")

diff --git a/05_자소서_문항3.md b/05_자소서_문항3.md
@@ -25,7 +25,7 @@
 
 > **소재:** `/learn` 학습 사이트(next-14-app.vercel.app/learn) + `project/` RAPV-Assistant를 종합한 STAR 완성본 (약 540자, 공백 포함 — 폼 제한 확인 후 필요 시 축약)
 > **수행기간:** 2026.07 (2주) / **역할:** 문제 정의·요구사항 제시·결과 검증 (구현은 Claude Code 에이전트에 위임하는 협업 방식 — 공고 주요업무 'AI 기반 개발도구 활용 개발'을 정직하게 그대로 기술)
-> **증빙:** GitHub 리포지토리(pytest 195케이스·CI·평가 스크립트 5종·판정 기준 문서) + 배포된 학습 사이트 URL
+> **증빙:** GitHub 리포지토리(pytest 271케이스·CI·평가 스크립트 5종·판정 기준 문서) + 배포된 학습 사이트 URL
 > **STAR 매핑:** S=AX를 향한 풀스택 개발자의 출발 / T=공고의 'AI 개발도구 활용 개발' 방식 직접 검증 / A=AI에 구현 위임 + 매 반복 코드·수치 분석으로 원리 소화 + 검증 계층 자체의 반복 정합성 점검 / R=Hit@1 1.0 개선 과정 + 검증 계층의 사각지대 제거 경험 + AI 협업 워크플로우 체득
 > ⚠️ **정직성 원칙:** 개선 구현의 주체는 AI 도구임을 숨기지 않는다. 지원자의 기여 = 문제 정의, 검증, 원리 분석·소화. 면접에서 "직접 짰나요?"에 그대로 답할 수 있는 수준만 주장한다.
 

diff --git a/CLAUDE.md b/CLAUDE.md
@@ -43,6 +43,6 @@ PV 도메인(`src/pv/` 케이스 처리 워크플로)이 항상 나란히 등장
 
 ```bash
 cd project
-.venv/bin/python -m pytest -q      # 237케이스
+.venv/bin/python -m pytest -q      # 271케이스
 .venv/bin/python -m src.preflight  # 배포 전 점검
 ```

diff --git a/직접작성/경력기술서_2.md b/직접작성/경력기술서_2.md
@@ -294,7 +294,7 @@ Python, FastAPI, Pydantic, FastMCP, Anthropic Claude API / RAG 파이프라인·
 •답변 신뢰성 계층 구축 — 모든 답변의 수치·날짜·방향 한정어를 근거와 대조하는 사후 검증 게이트, 배포 전 점검(preflight), 경고율 계기판 구현
 •신뢰성 계층 자체의 정합성 점검 루프 수행 — '논리적 비약·사각지대'의 판정 기준을 문서화하고 문서·코드·수치를 반복 대조해, 한국어 표기 경계에서 새던 개인정보(PII) 마스킹 누락 등 안전장치 자신의 결함을 찾아 회귀 테스트로 고정
 •FastMCP 기반 MCP 서버 구현 — 도구를 MCP 규격으로 분리하고 stdio 실행을 지원해 다른 MCP 클라이언트에서도 연결 가능한 구조
-•검색 품질(Hit@1·MRR·ContextRecall)·PV 워크플로·검증기 평가 스크립트와 pytest 195케이스를 작성하고 GitHub Actions CI로 회귀 방지, FastAPI 백엔드·웹 챗 UI로 엔드투엔드 데모 구성
+•검색 품질(Hit@1·MRR·ContextRecall)·PV 워크플로·검증기 평가 스크립트와 pytest 271케이스를 작성하고 GitHub Actions CI로 회귀 방지, FastAPI 백엔드·웹 챗 UI로 엔드투엔드 데모 구성
 
 
 [성과]